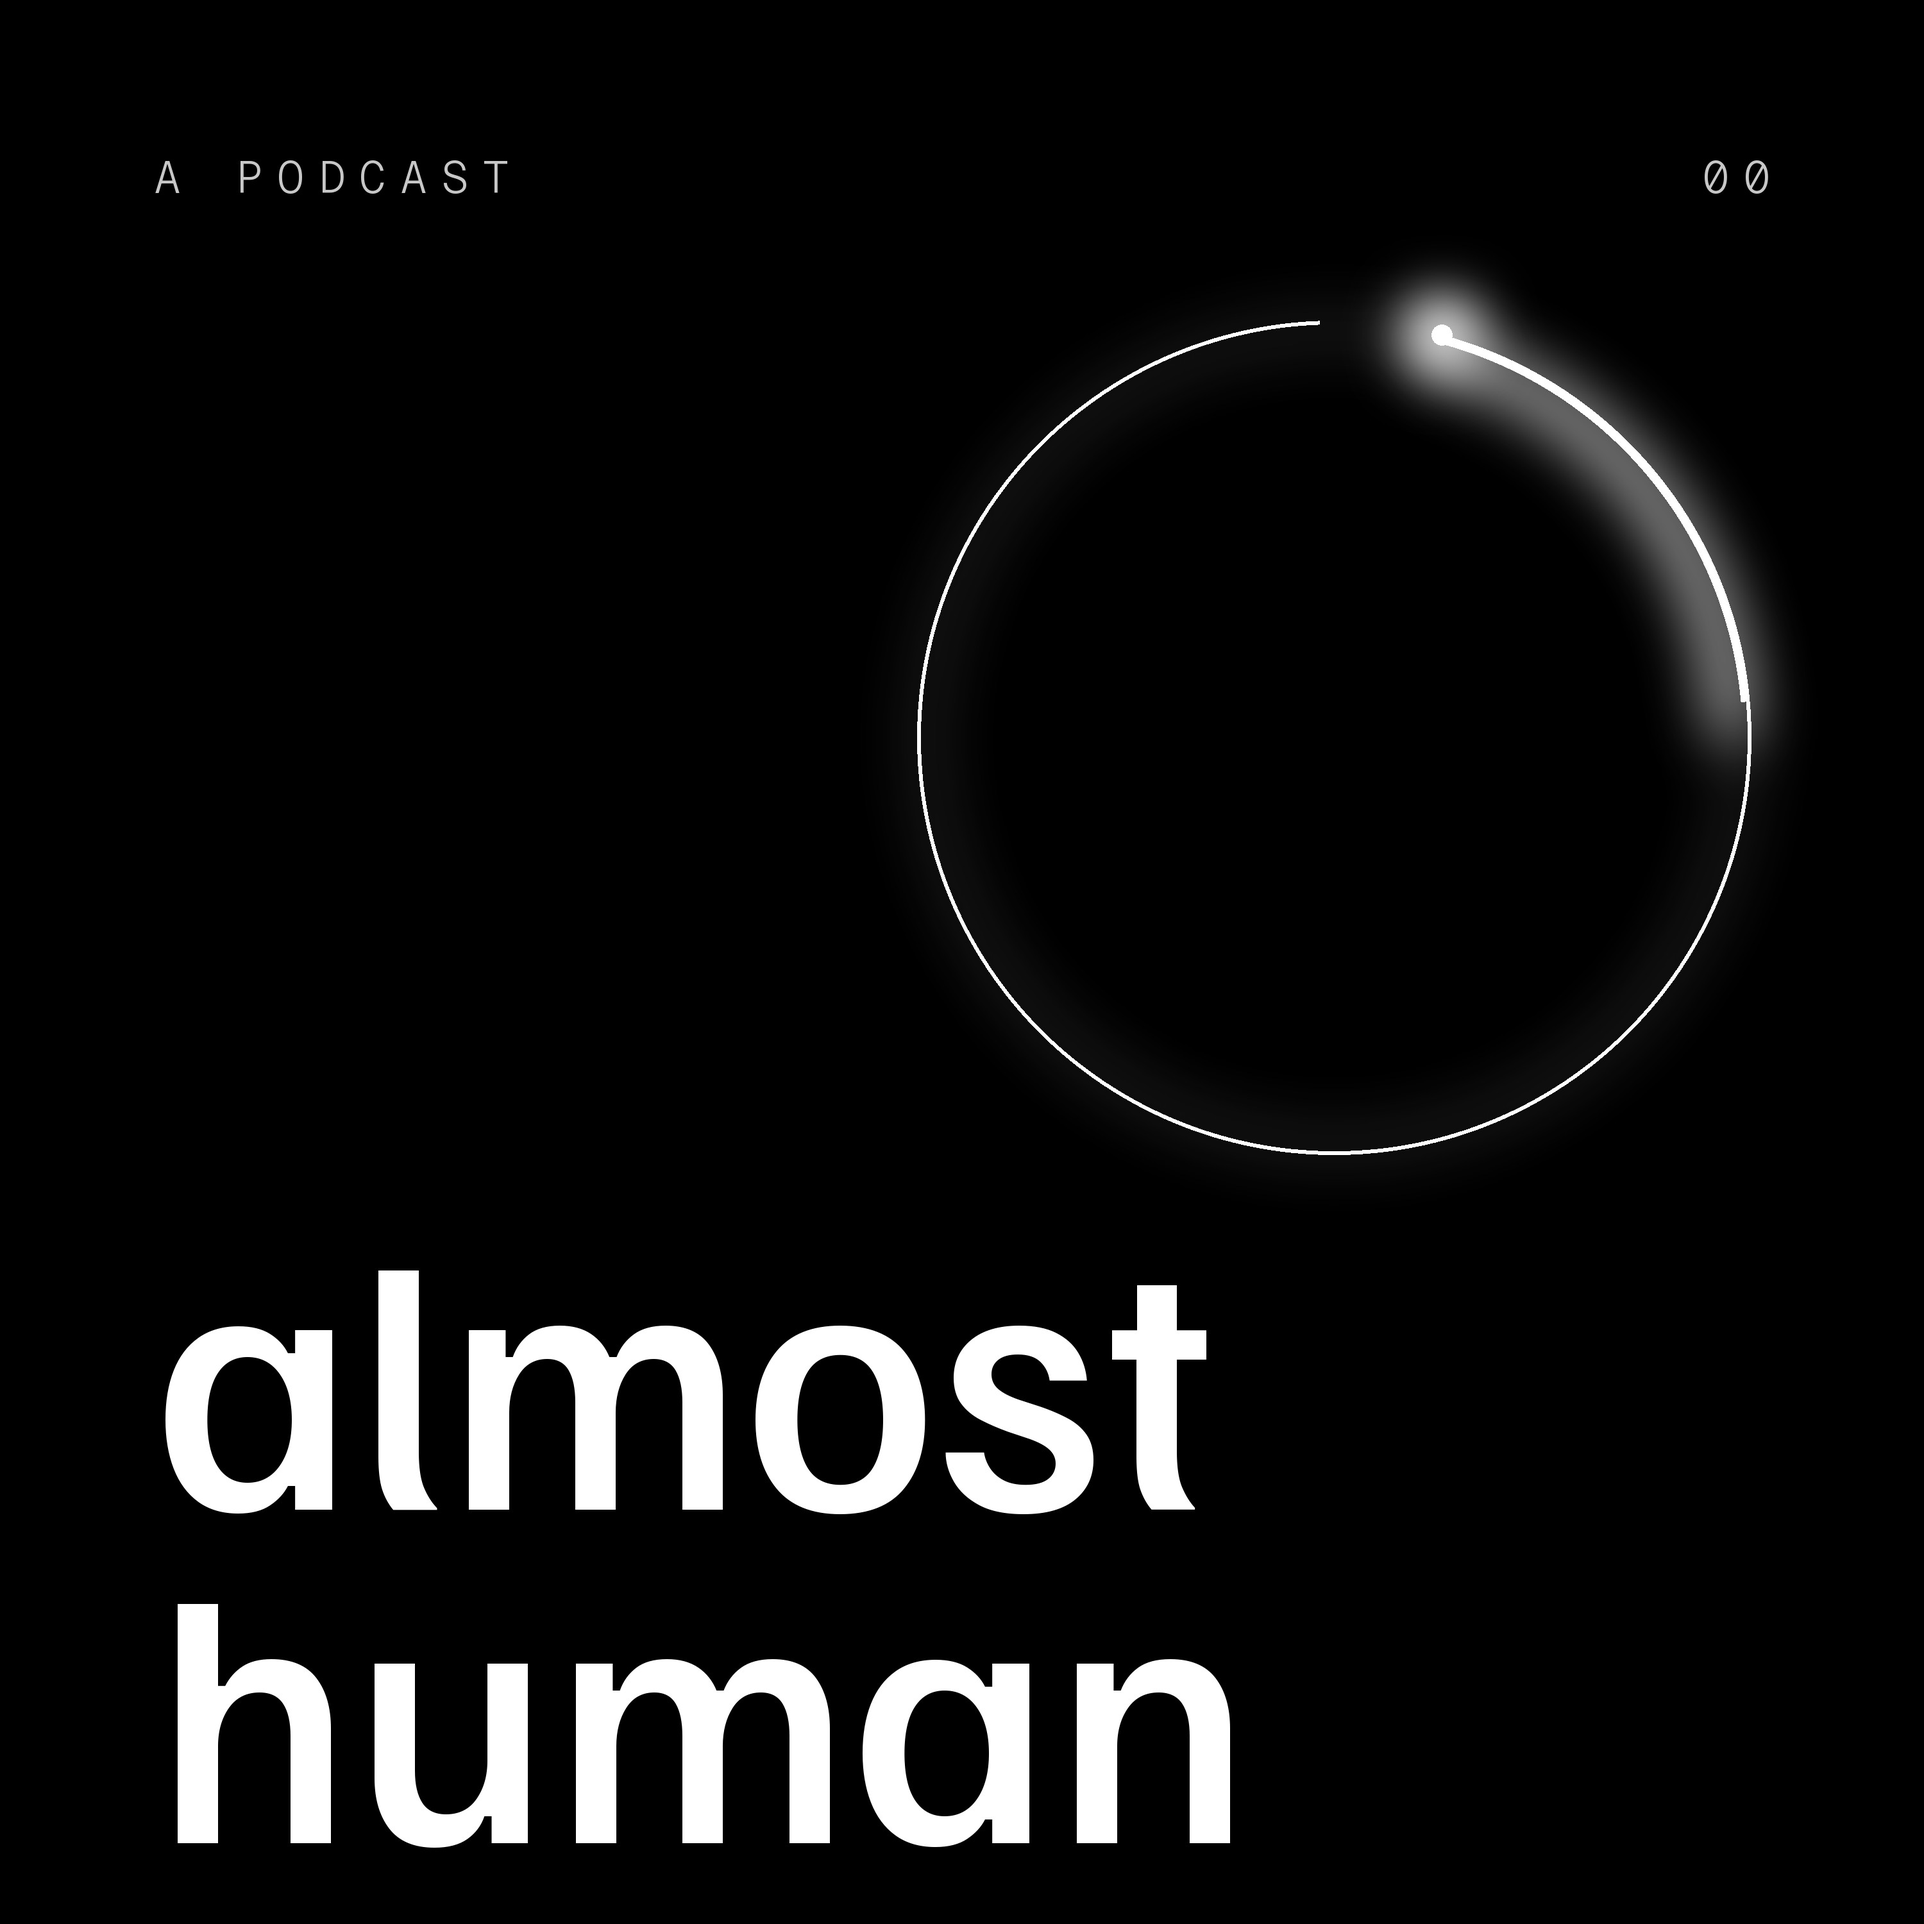
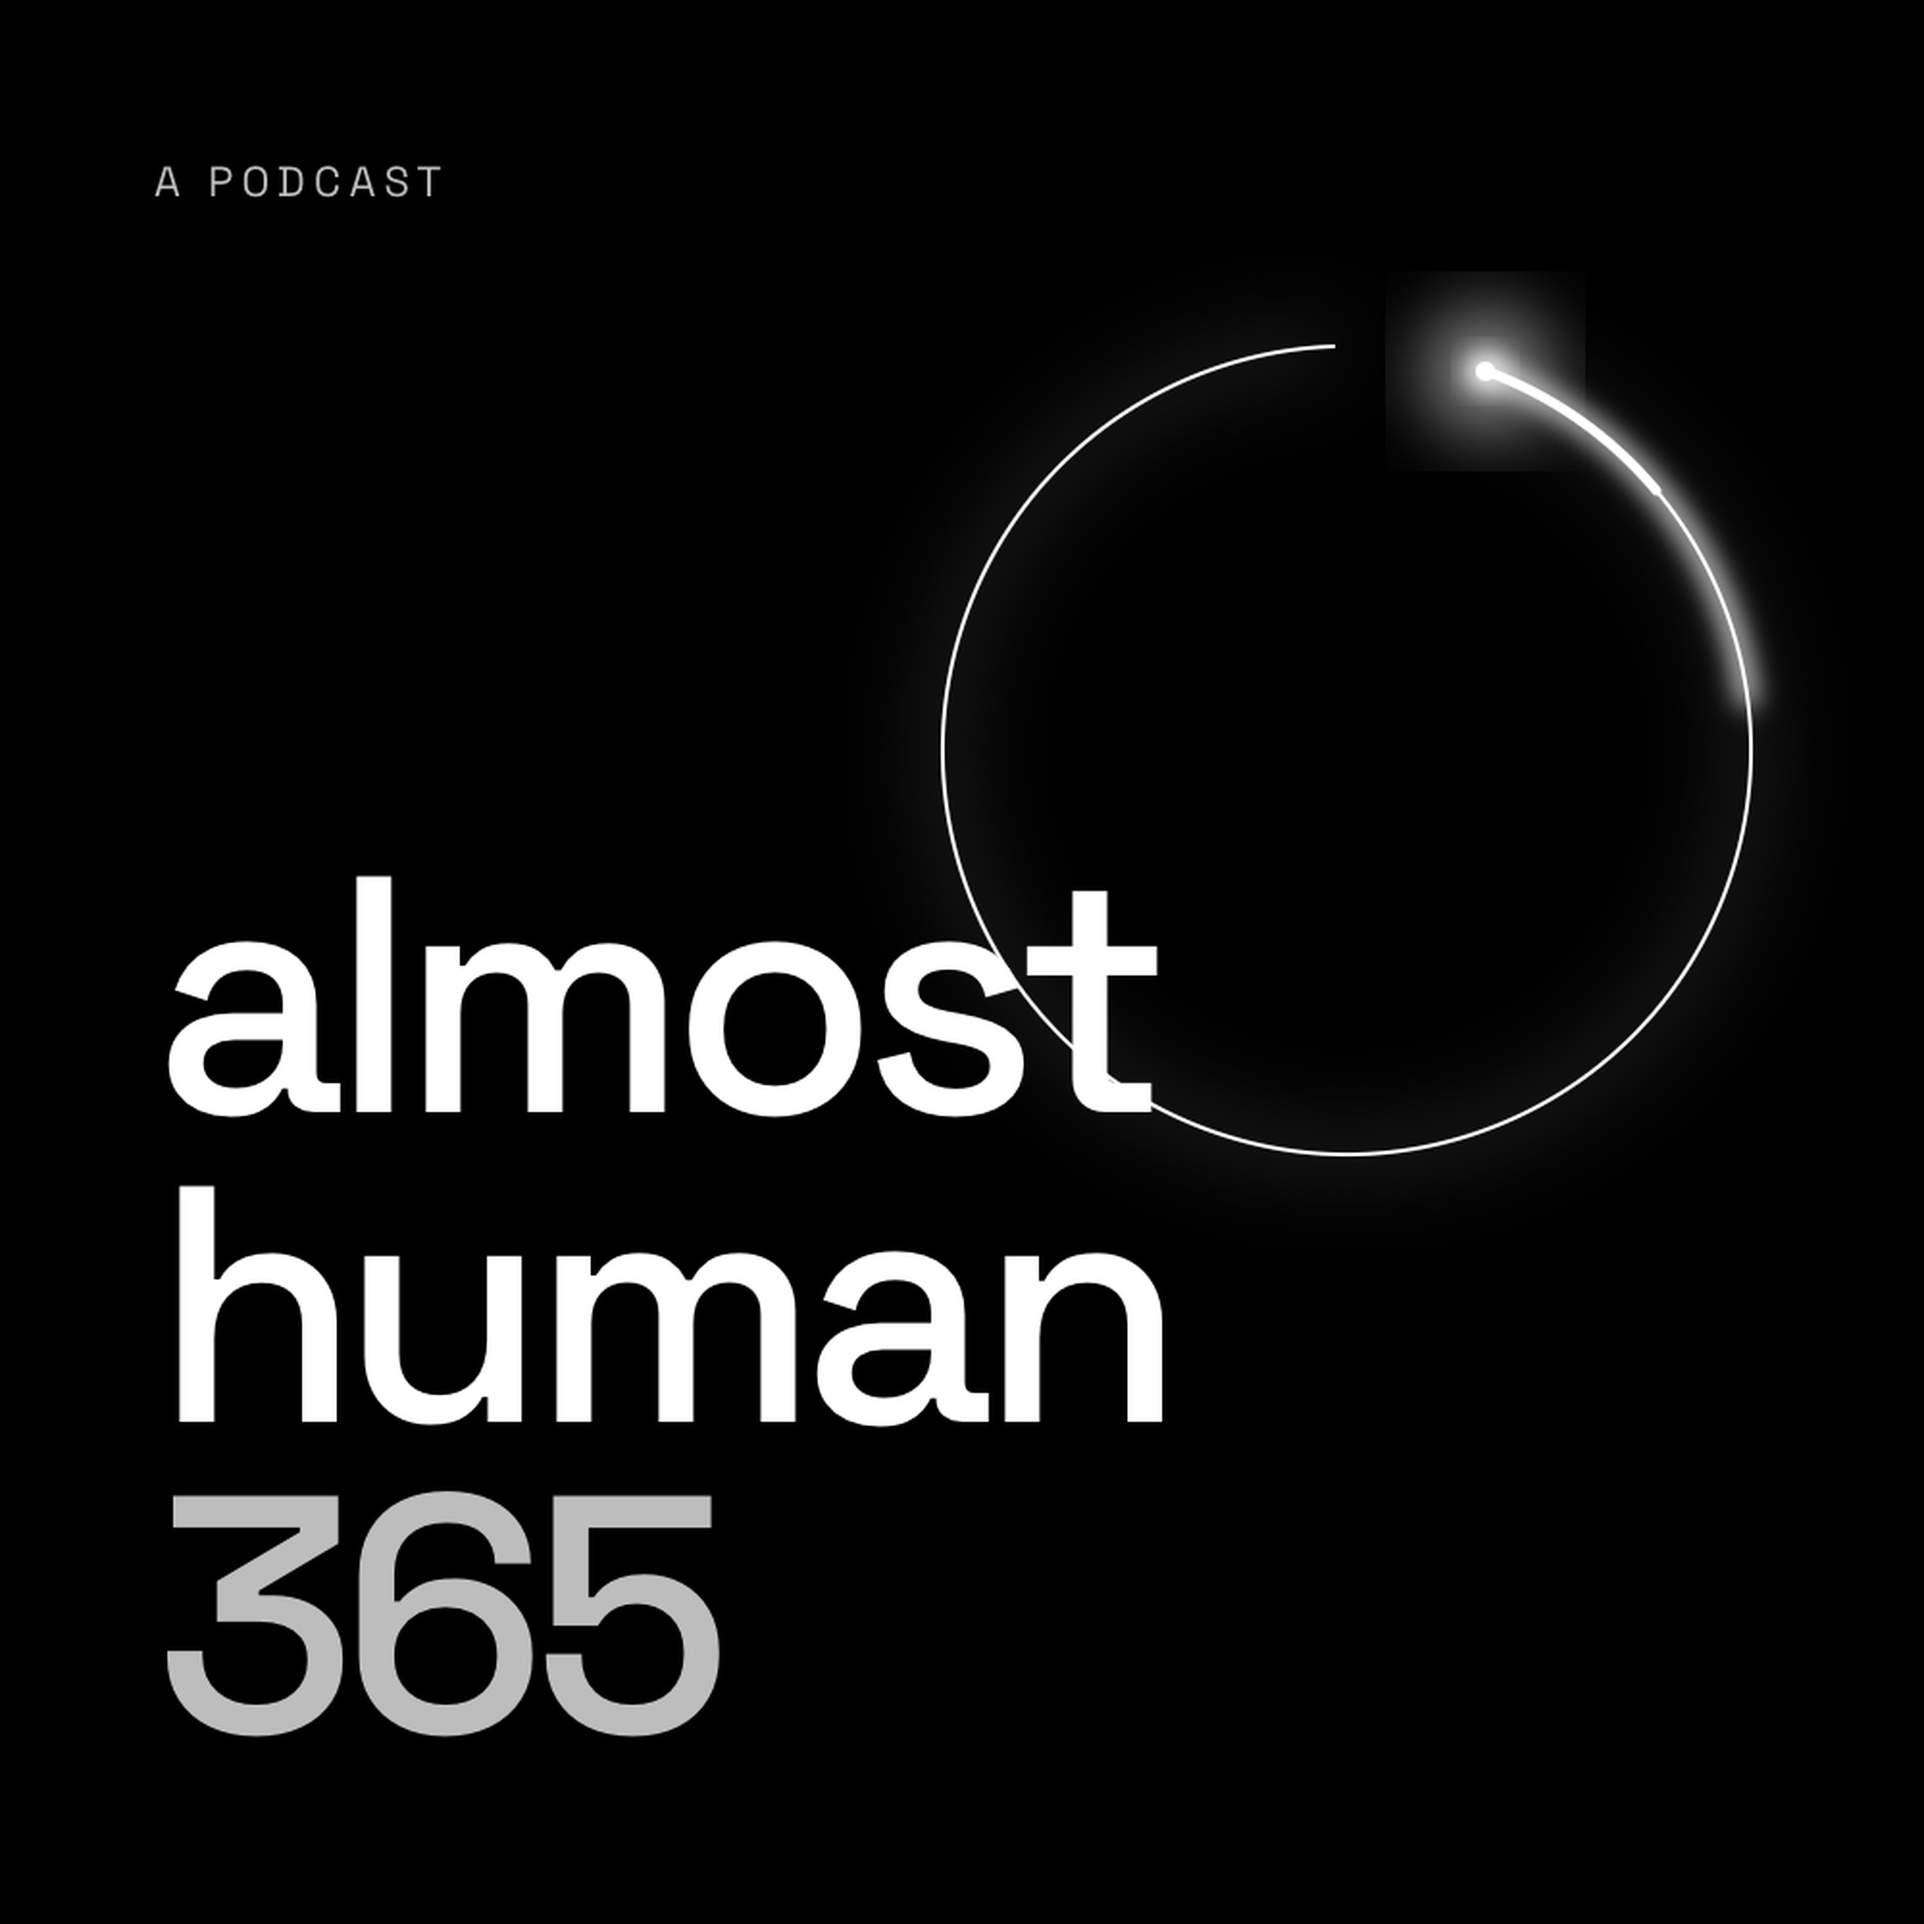
Rename to Almost Human 365, new cover

diff --git a/index.html b/index.html
@@ -3,9 +3,9 @@
 <head>
   <meta charset="utf-8">
   <meta name="viewport" content="width=device-width, initial-scale=1">
-  <title>Almost Human</title>
+  <title>Almost Human 365</title>
   <meta name="description" content="Following the signal of AI news and leaving behind all the noise. 3 stories, 6 days a week, 5 minutes each.">
-  <link rel="alternate" type="application/rss+xml" title="Almost Human" href="feed.xml">
+  <link rel="alternate" type="application/rss+xml" title="Almost Human 365" href="feed.xml">
   <style>
     body{margin:0;background:#000;color:#fff;font-family:system-ui,-apple-system,sans-serif;display:flex;min-height:100vh;align-items:center;justify-content:center}
     main{max-width:36rem;padding:2rem;text-align:center}
@@ -17,8 +17,8 @@
 </head>
 <body>
   <main>
-    <img src="cover.jpg" alt="Almost Human cover art">
-    <h1>Almost Human</h1>
+    <img src="cover.jpg" alt="Almost Human 365 cover art">
+    <h1>Almost Human 365</h1>
     <p>Following the signal of AI news and leaving behind all the noise.<br>3 stories, 6 days a week, 5 minutes each.</p>
     <p><a href="feed.xml">RSS feed</a></p>
   </main>
